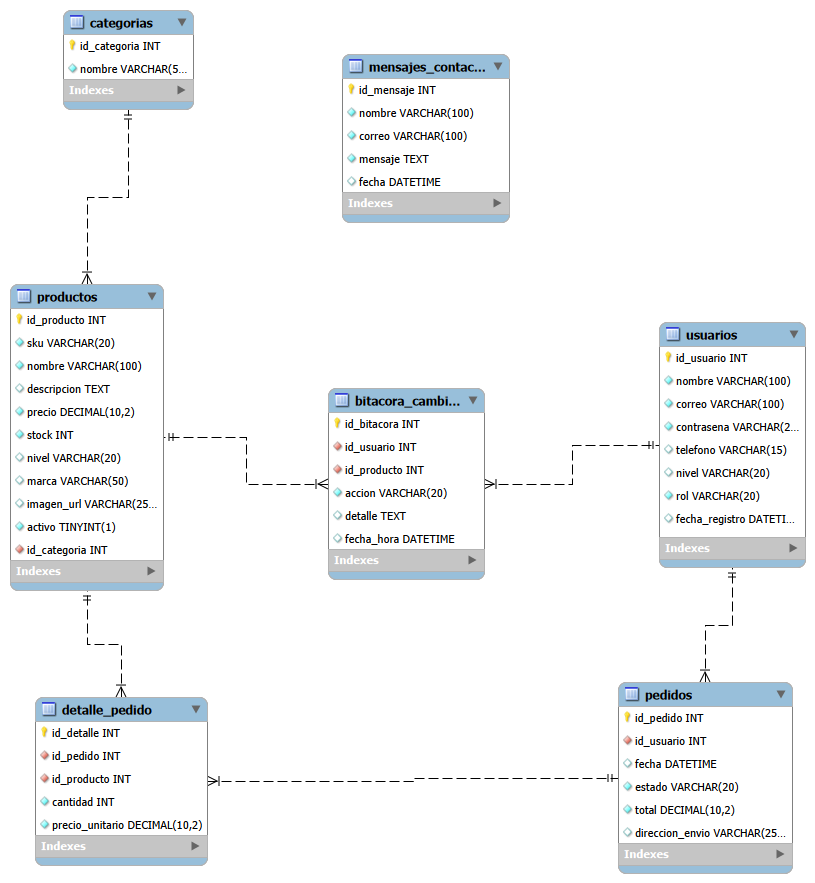
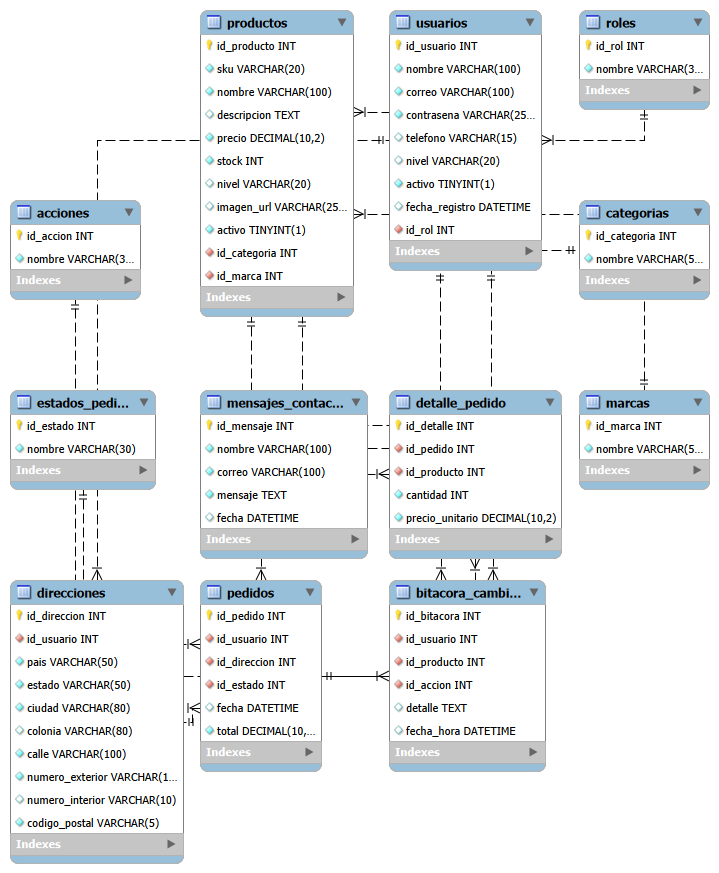
Portafolio: Webflow, base de datos, SQL y certificación

diff --git a/docs/index.html b/docs/index.html
@@ -156,7 +156,7 @@
                 <div class="card-body">
                   <span class="mono num">03 · SQL · MYSQL · MODELO ER</span>
                   <h5 class="card-title">Base de datos CoffeeMod</h5>
-                  <p class="card-text">Diseñé el modelo entidad-relación de la tienda en MySQL Workbench: 7 tablas (usuarios, pedidos, detalle, productos, categorías, bitácora y contacto) con llaves foráneas y datos de prueba.</p>
+                  <p class="card-text">Diseñé el modelo entidad-relación de la tienda en MySQL Workbench: 12 tablas (usuarios, roles, direcciones, pedidos, estados, detalle, productos, marcas, categorías, bitácora, acciones y contacto) con llaves foráneas, catálogos normalizados y datos de prueba.</p>
                 </div>
                 <div class="card-footer"><a href="img/coffeemod-modelo-er.png" target="_blank" rel="noopener" class="btn btn-azul">VER DIAGRAMA ↗</a></div>
               </div>

diff --git a/index.html b/index.html
@@ -154,7 +154,7 @@
                 <div class="card-body">
                   <span class="mono num">03 · SQL · MYSQL · MODELO ER</span>
                   <h5 class="card-title">Base de datos CoffeeMod</h5>
-                  <p class="card-text">Diseñé el modelo entidad-relación de la tienda en MySQL Workbench: 7 tablas (usuarios, pedidos, detalle, productos, categorías, bitácora y contacto) con llaves foráneas y datos de prueba.</p>
+                  <p class="card-text">Diseñé el modelo entidad-relación de la tienda en MySQL Workbench: 12 tablas (usuarios, roles, direcciones, pedidos, estados, detalle, productos, marcas, categorías, bitácora, acciones y contacto) con llaves foráneas, catálogos normalizados y datos de prueba.</p>
                 </div>
                 <div class="card-footer"><a href="img/coffeemod-modelo-er.png" target="_blank" rel="noopener" class="btn btn-azul">VER DIAGRAMA ↗</a></div>
               </div>
